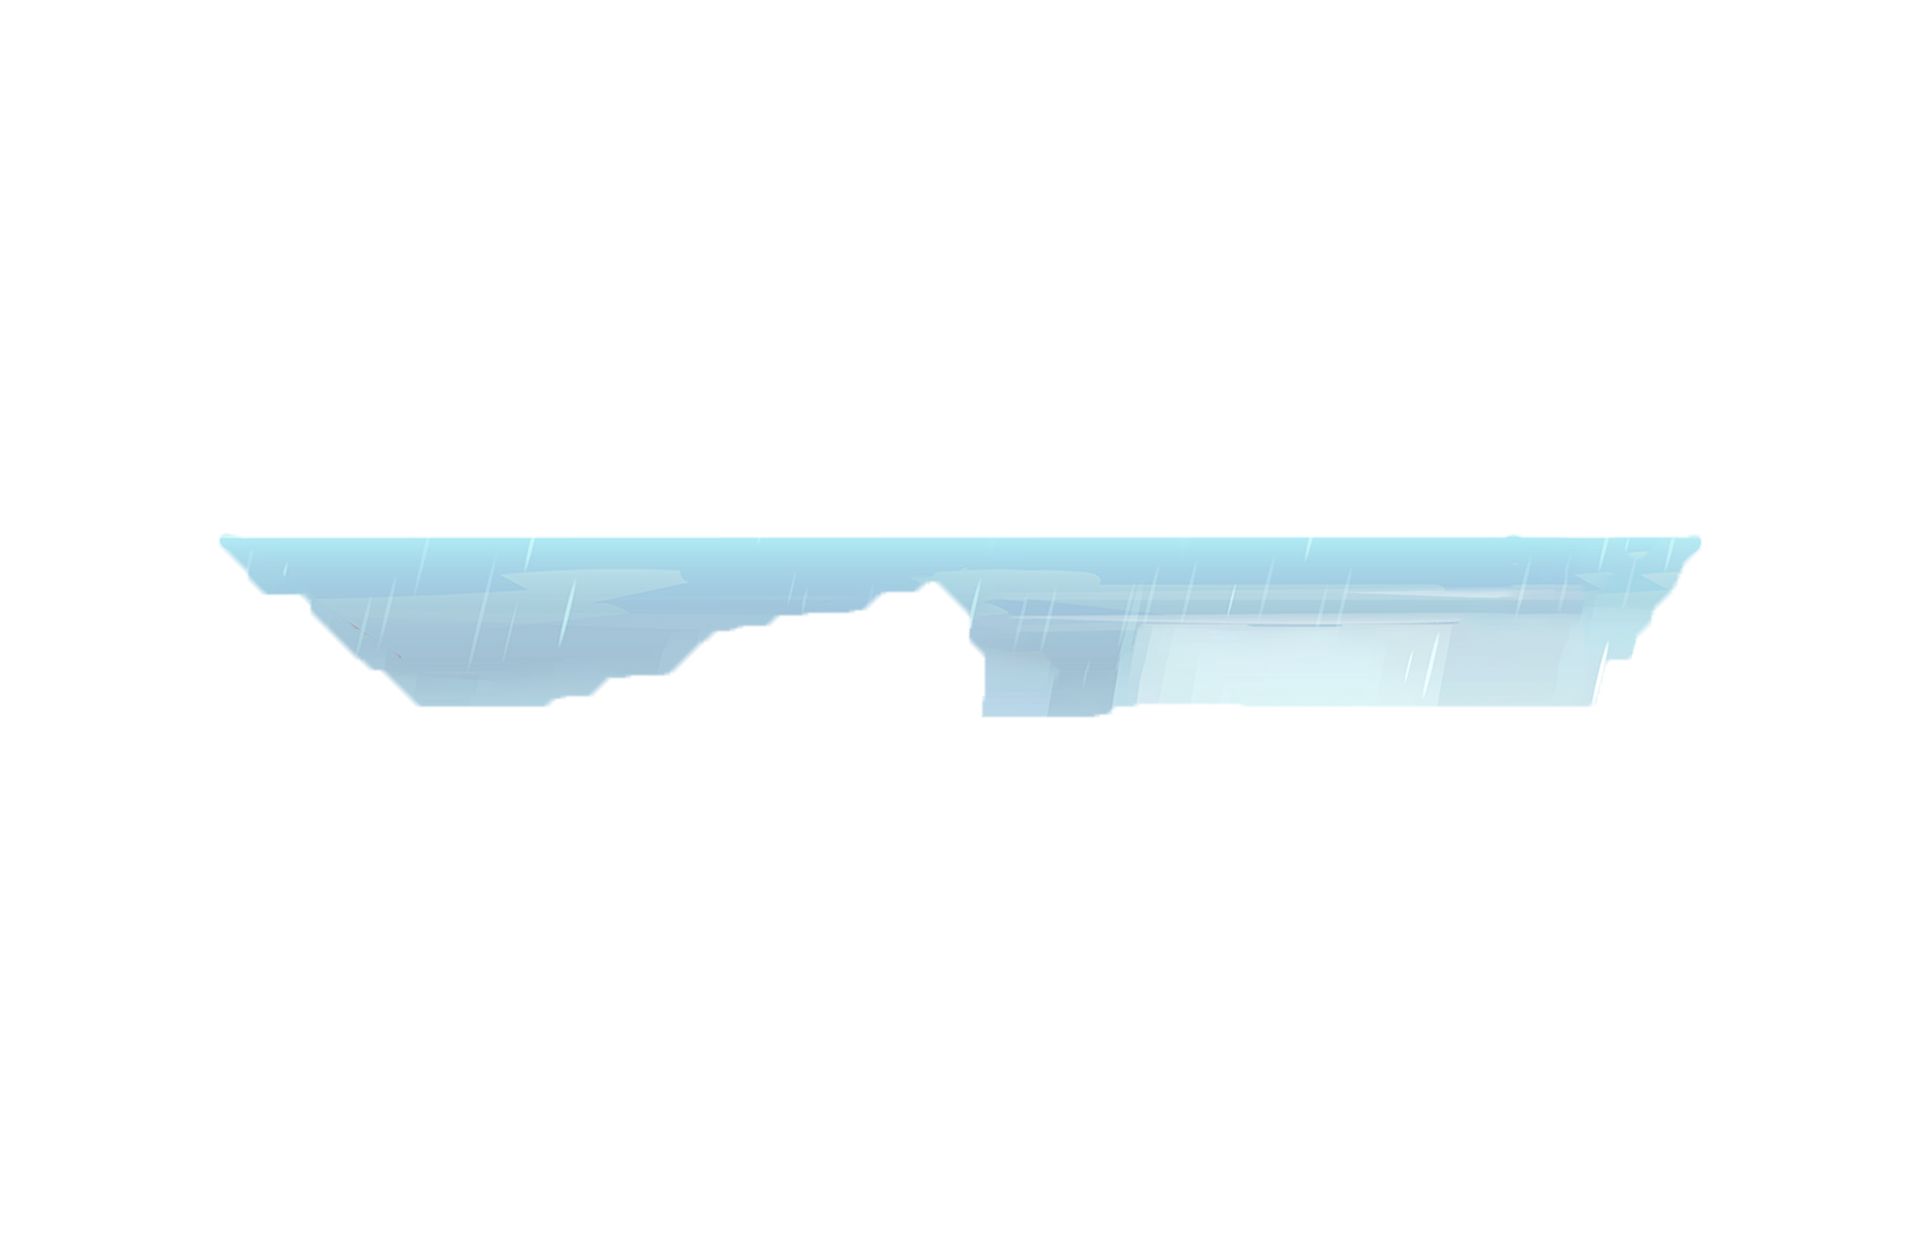
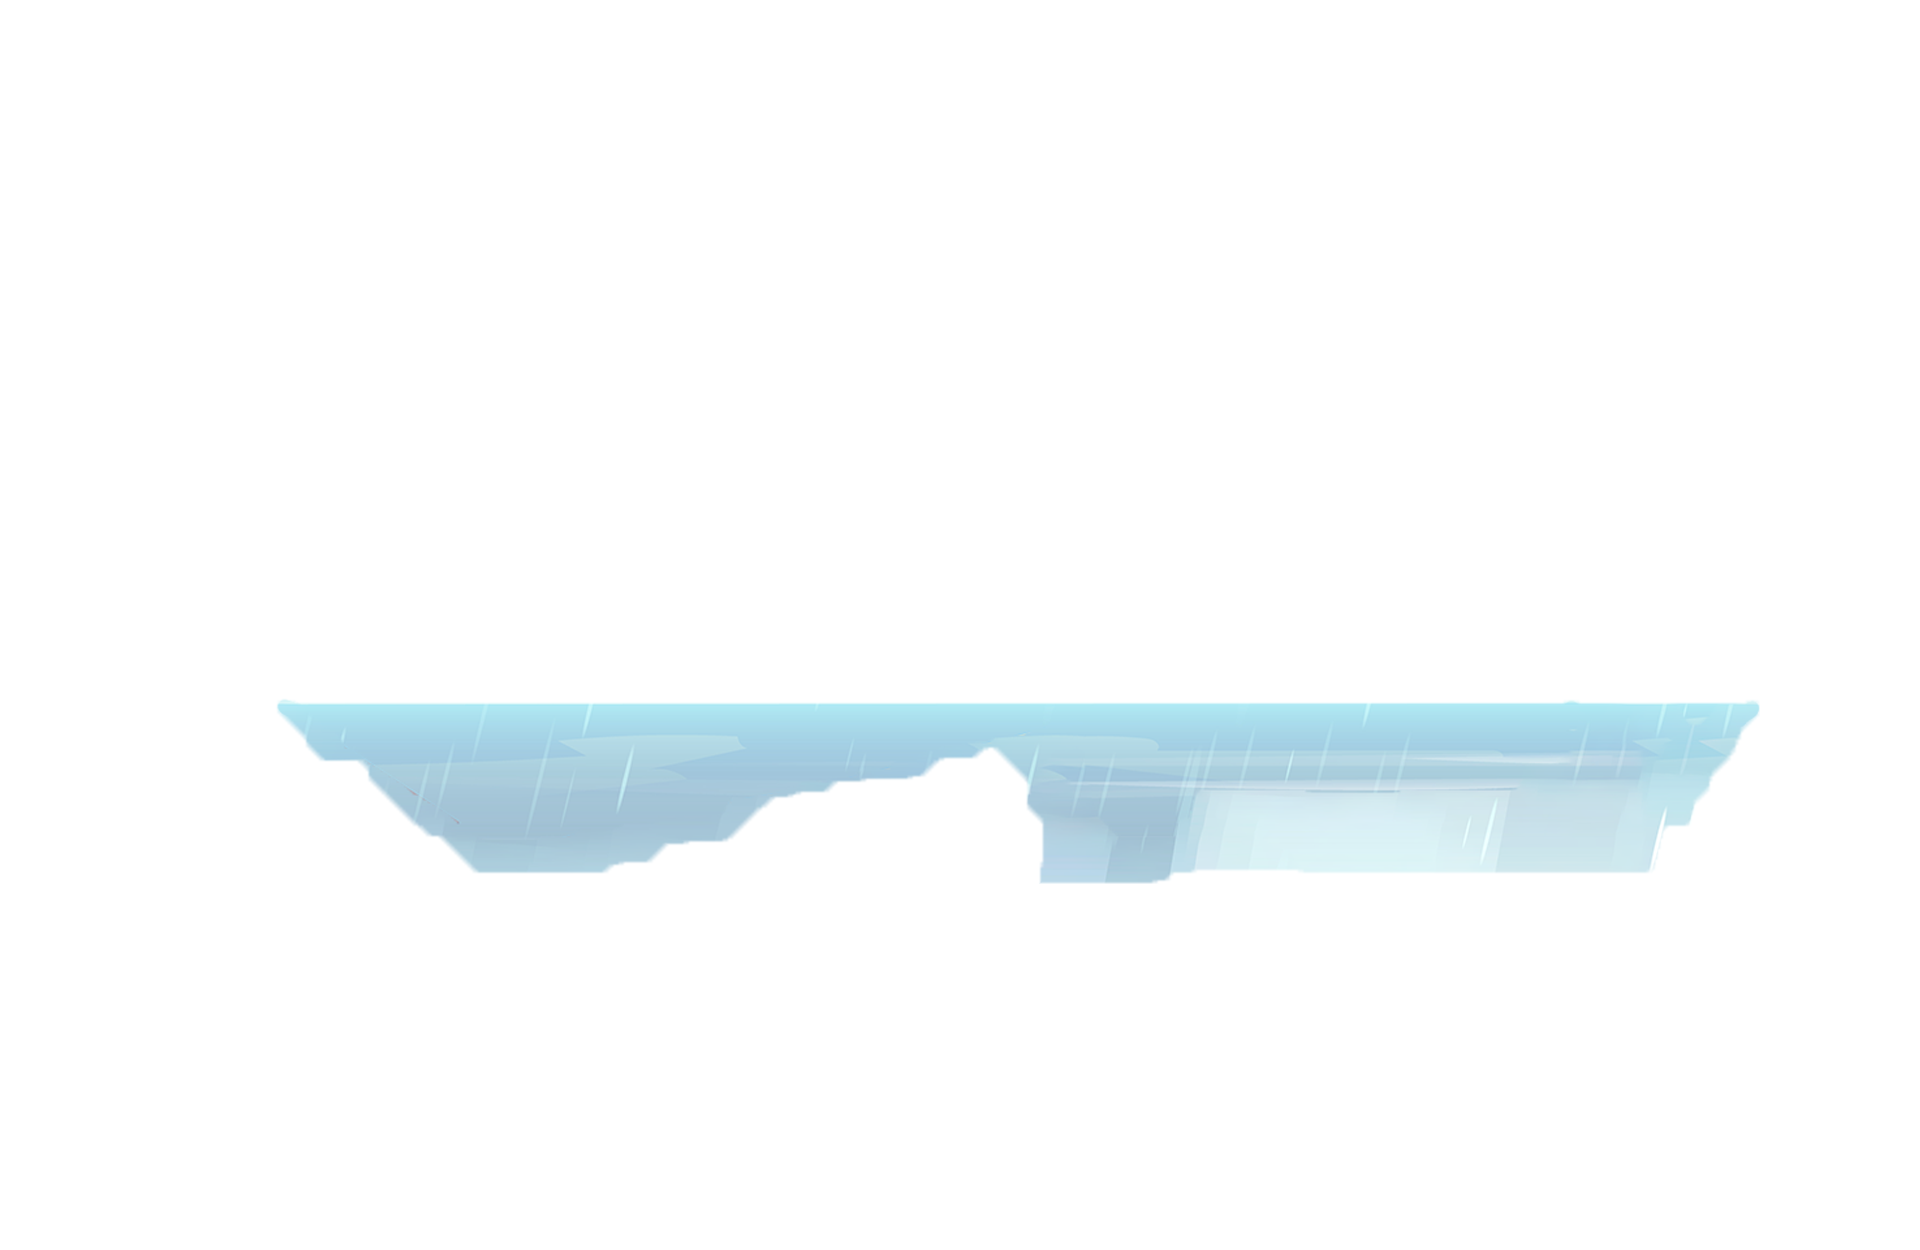
added parallax effect when scrolling

Changed region(s): [[0.125, 0.4056, 0.9375, 0.7176]]

diff --git a/src/components/jumbotron/Jumbotron.jsx b/src/components/jumbotron/Jumbotron.jsx
@@ -1,11 +1,24 @@
-import "./jumbotron.css"
+import './jumbotron.css';
+import { useRef, useEffect } from 'react';
 
 export default function Jumbotron() {
-    return (
-        <section>
-            <img src="./pictures/background.png" alt="rain" />
-            <img src="./pictures/rocks.png" alt="rocks" />
-            <img src="./pictures/water.png" alt="water" />
-        </section>
-    )
+  const rainRef = useRef();
+  const waterRef = useRef();
+  const rocksRef = useRef();
+
+  useEffect(() => {
+    window.addEventListener('scroll', () => {
+      let value = window.scrollY;
+      rainRef.current.style.top = value * 0.75 + 'px';
+      waterRef.current.style.top = value * 0.50 + 'px';
+    });
+  }, []);
+
+  return (
+    <section>
+      <img ref={rainRef} id="rain" src="./pictures/background.png" alt="rain" />
+      <img ref={waterRef} id="water" src="./pictures/water.png" alt="water" />
+      <img ref={rocksRef} id="rocks" src="./pictures/rocks.png" alt="rocks" />
+    </section>
+  );
 }

diff --git a/src/App.js b/src/App.js
@@ -1,6 +1,7 @@
 import './App.css';
 import Api from './components/Api.jsx';
 import Jumbotron from './components/jumbotron/Jumbotron';
+import Forecast from './components/forecast/Forecast';
 
 function App() {
 
@@ -9,6 +10,7 @@ function App() {
       {/* HELLO
       <Api /> */}
       <Jumbotron />
+      <Forecast />
     </div>
   );
 }

diff --git a/src/components/forecast/Forecast.jsx b/src/components/forecast/Forecast.jsx
@@ -1,0 +1,9 @@
+import "./forecast.css"
+
+export default function Forecast() {
+    return (
+        <div className="forecast">
+            
+        </div>
+    )
+}

diff --git a/src/components/jumbotron/jumbotron.css b/src/components/jumbotron/jumbotron.css
@@ -11,5 +11,5 @@ section img {
     left: 0;
     width: 100%;
     height: 100%;
-    /* object-fit: cover; */
+    object-fit: cover;
 }

diff --git a/src/components/forecast/forecast.css b/src/components/forecast/forecast.css
@@ -1,0 +1,6 @@
+.forecast {
+    position: relative;
+    height: 100vh;
+    background-color: turquoise;
+    z-index: 1000;
+}
